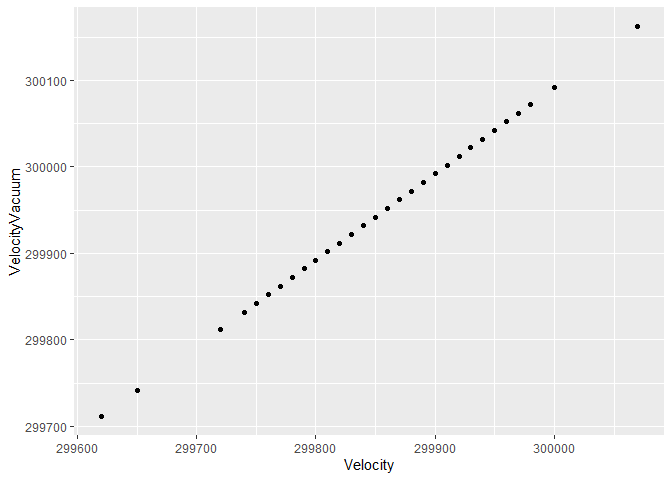
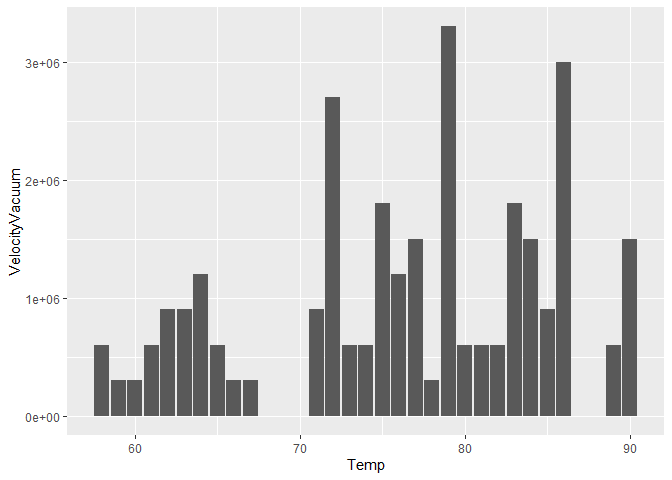
hubbabolo

diff --git a/data-science-curriculum-build/challenges/c02-michelson-assignment.md b/data-science-curriculum-build/challenges/c02-michelson-assignment.md
@@ -122,6 +122,18 @@ df_michelson %>% glimpse()
     ## $ Temp         <dbl> 76, 72, 72, 72, 72, 72, 83, 83, 83, 83, 83, 90, 90, 71, 7…
     ## $ Velocity     <dbl> 299850, 299740, 299900, 300070, 299930, 299850, 299950, 2…
 
+``` r
+df_michelson %>% summary()
+```
+
+    ##       Date                     Distinctness      Temp          Velocity     
+    ##  Min.   :1879-06-05 00:00:00   1:15         Min.   :58.00   Min.   :299620  
+    ##  1st Qu.:1879-06-13 00:00:00   2:39         1st Qu.:72.00   1st Qu.:299808  
+    ##  Median :1879-06-19 00:00:00   3:46         Median :77.00   Median :299850  
+    ##  Mean   :1879-06-18 20:38:24                Mean   :76.39   Mean   :299852  
+    ##  3rd Qu.:1879-06-23 06:00:00                3rd Qu.:83.25   3rd Qu.:299893  
+    ##  Max.   :1879-07-02 00:00:00                Max.   :90.00   Max.   :300070
+
 *Data dictionary*:
 
 - `Date`: Date of measurement
@@ -140,13 +152,13 @@ df_michelson %>% glimpse()
 
 ``` r
 ## TODO: Compute summaries
-df_q1 <- 
+df_q1 <-
   df_michelson %>%
   group_by(Distinctness) %>%
-    summarize(
-      n = n(),
-      MeanVelocity = mean(Velocity)
-    )
+  summarize(
+    n = n(),
+    MeanVelocity = mean(Velocity)
+  )
 df_q1 %>%
   arrange(desc(Distinctness)) %>%
   knitr::kable()
@@ -161,8 +173,7 @@ df_q1 %>%
 **Observations**: - Write your observations here!
 
 \- My table has values to decimal points whereas Michelson’s data is
-rounded down for the first column and rounded up for the second two
-columns.
+rounded to the 10s place in all of the columns.
 
 \- Why might your table differ from Michelson’s?
 
@@ -339,12 +350,13 @@ places between the two graphs.
 
 Differences - In the beginning of the real data, there is a lot more
 fluctuation that narrows as time goes on, whereas in the simulated data,
-it starts off more narrow and becomes less accurate as time goes on
+it starts off more narrow and becomes more variable as time goes on
 which is interesting. The simulated data also does not have any points
-on the best fine line go below the uncertainty whereas the real data has
+on the trend line go below the uncertainty whereas the real data has
 multiple peaks that go below the line, especially the one around June
-12-13. The simulated data ends slightly above the actual velocity value,
-whereas the real data ends right on that value.
+12-13. The simulated data ends above the actual velocity value and the
+real data also ends up higher than the actual velocity value but less
+than the simulated data.
 
 ### **q5** You have access to a few other variables. Construct a **at least three** visualizations of `VelocityVacuum` against these other factors. Are there other patterns in the data that might help explain the difference between Michelson’s estimate and `LIGHTSPEED_VACUUM`?
 
@@ -369,8 +381,8 @@ df_q2 %>%
 
 ``` r
 df_q2 %>%
-  ggplot(aes(Velocity, VelocityVacuum)) +
-  geom_point()
+  ggplot(aes(Temp, VelocityVacuum)) +
+  geom_col()
 ```
 
 ![](c02-michelson-assignment_files/figure-gfm/unnamed-chunk-4-1.png)<!-- -->
@@ -386,12 +398,18 @@ df_q2 %>%
 - 2nd graph: There is a general trend that as temperature increases, the
   measurement increases. It is not a great fit and there are a wide
   range of values at around 72 degrees.
-- 3rd graph: There is a direct relationship between velocity and
-  velocity in the vacuum where as one increases, the other increases as
-  well. This makes sense because this graph is comparing two very
-  similar quantities.
+- 3rd graph: This shows the similar trend that as temeprature increases,
+  measurement increases, but it made it more clear to me where the
+  majority of the values were measured. The majority of values were in
+  the 70s-80s range and there is quite a lot of variability within that
+  range which is interesting. Another observation is that the tallest
+  column is at 79 degrees yet in the 2nd graph, the highest value was at
+  72 degrees.
 - The 2nd and 3rd graphs are not saying much because they’re both
   basically just saying that the two values are positively related.
+- I don’t think there is a clear pattern that might explain the
+  difference between the estimate and the actual lightspeed value in the
+  data alone without doing extra experiments or research.
 
 ## Bibliography
 
